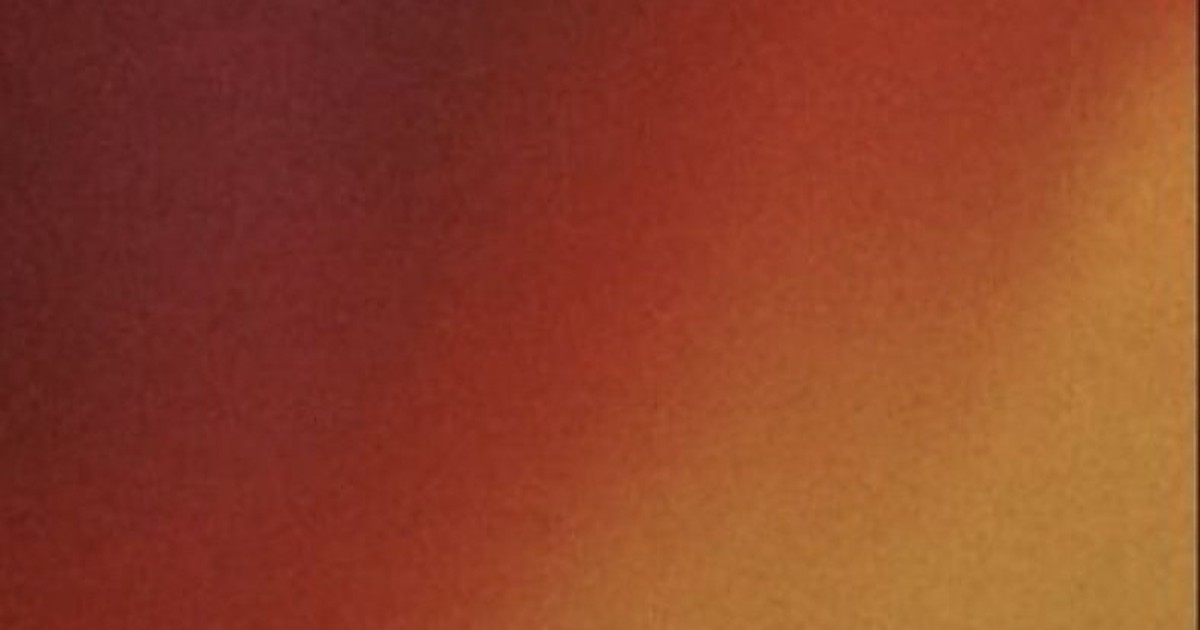
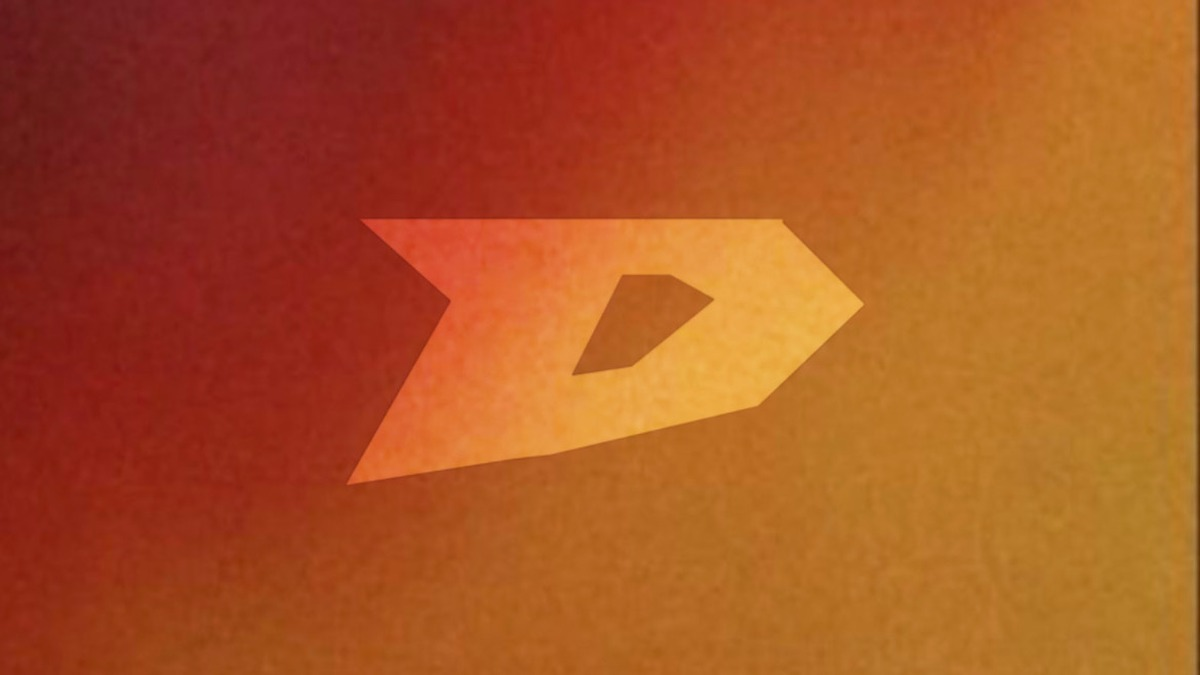
Social preview image: the D mark, not the raw gradient crop
Swapped assets/social-banner.jpg for the logo mark on the sunset
gradient — recognisable as the site's own identity rather than an
abstract crop. Already native 16:9 (1170x658), so it only needed a
near-lossless resize to a clean 1200x675; og:image:width/height updated
to match.

Claude-Session: https://claude.ai/code/session_01UBEdEFBAdER4kxygyiNm4K

diff --git a/index.html b/index.html
@@ -19,7 +19,7 @@
   <meta property="og:url" content="https://deonmade.com/" />
   <meta property="og:image" content="https://deonmade.com/assets/social-banner.jpg" />
   <meta property="og:image:width" content="1200" />
-  <meta property="og:image:height" content="630" />
+  <meta property="og:image:height" content="675" />
 
   <meta name="twitter:card" content="summary_large_image" />
   <meta name="twitter:title" content="DEON - Artist in All Forms" />
